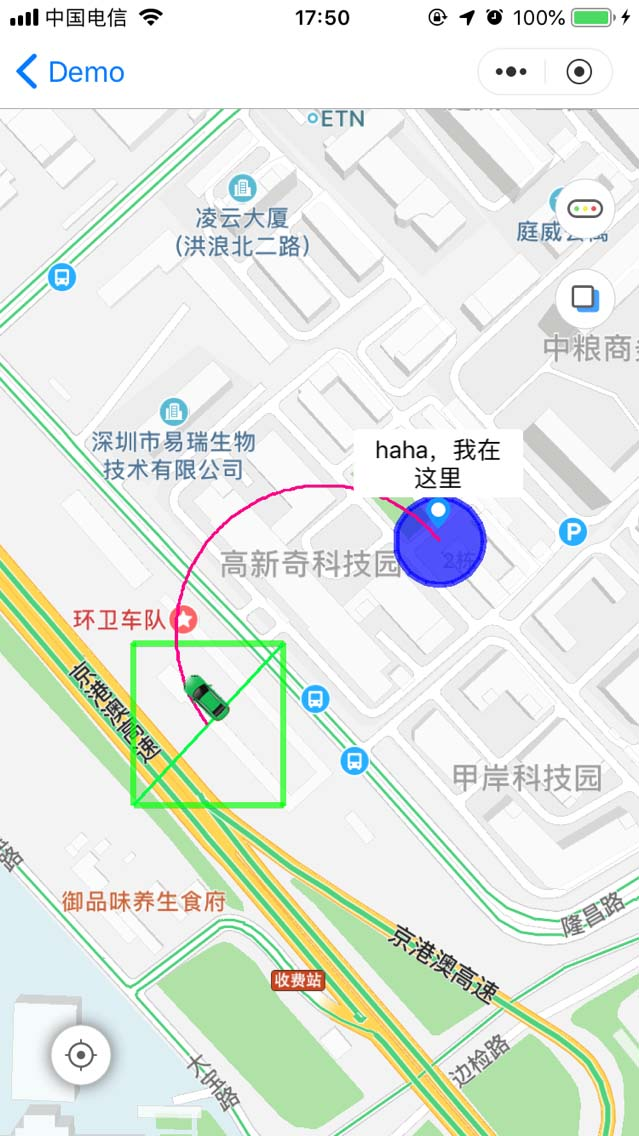
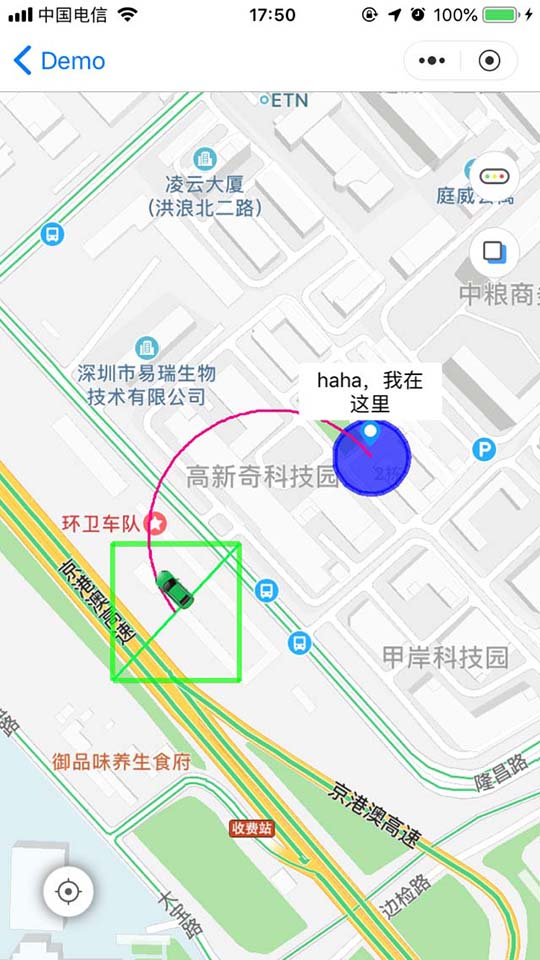
修改JS实例程序

diff --git a/example/App.js b/example/App.js
@@ -8,30 +8,295 @@
  */
 
 import React, {Component} from 'react';
-import {Platform, StyleSheet, Text, View, Dimensions, Button} from 'react-native';
-import { MapView, MapTypes, Geolocation, Overlay } from 'react-native-baidu-map';
+import {Platform, StyleSheet, Image, Text, View, Dimensions, Button,TouchableOpacity} from 'react-native';
+import { MapView, MapTypes, Geolocation, Overlay } from 'react-native-baidu-map-jm';
 const {height, width} = Dimensions.get('window');
 
-type Props = {};
 export default class App extends Component<Props> {
-  state = {
-  };
+    state = {
+        center:{
+            latitude : 22.5801910000,
+            longitude : 113.9276540000
+        },
+        trafficEnabled:true,
+        isOpenPanoramic:false,
+        mapType:1,
+        markers:[
+        {
+             title:'汽车位置',
+             location:{
+                 latitude : 22.55373,
+                 longitude : 113.925063
+             }
+        },
+        {
+             title:'haha，我在这里',
+             location:{
+                 latitude : 22.580054,
+                 longitude : 113.927745
+             }
+        }],
+        isCarLocation:false,
+    };
+
+    componentWillMount() {
+    }
+
+    componentDidMount(){
+        this.location(this.state.isCarLocation);
+    }
+
+    componentWillUnmount() {
+    }
+
+    //路况
+    setTraffic(enabled){
+        console.log('Home',"路况：" + enabled);
+        this.setState({trafficEnabled:enabled});
+    }
+
+    //全景
+    panoramic(isOpen){
+        console.log('Home',"全景状态：" + isOpen);
+
+    }
+
+    //地图类型
+    setMapType(type){
+        console.log('Home',"地图类型：" + type);
+        this.setState({mapType:type});
+    }
+
+    location(isCar){
+        if(isCar) {
+            console.log('定位车辆位置');
+        } else {
+            console.log('定位当前位置');
+        }
+        this.setState({isCarLocation:isCar});
+        if(isCar){
+            this.getCarLocation();
+        }else{
+            this.getMyLocation();
+        }
+
+    }
+
+    //查询车的位置
+    getCarLocation(){
+       //此处无Car的位置信息，用人的位置代替
+      Geolocation.getCurrentPosition().then(data=>{
+          console.log('getCarPosition',"latitude:" + data.latitude + " ,longitude:" + data.longitude + " ,address:" + data.address);
+          let carPosition = this.state.markers[0];
+          let personPosition = this.state.markers[1];
+          this.setState({
+              markers:[
+                 {
+                       title:carPosition.title,
+                       location:{
+                          latitude : data.latitude-0.001000,
+                          longitude : data.longitude-0.001000,
+                       }
+                 },
+                 {
+                       title:personPosition.title,
+                       location:{
+                          latitude : personPosition.location.latitude,
+                          longitude : personPosition.location.longitude,
+                       }
+                 }
+              ],
+              center:{
+                        latitude : data.latitude-0.001000,
+                        longitude : data.longitude-0.001000
+              }
+              });
+          }).catch(e=>{
+            console.log('getCurrentPosition', '获取位置失败:' + e);
+        });
+    }
+
+    //获取当前人位置
+    getMyLocation(){
+        Geolocation.getCurrentPosition().then(data=>{
+              console.log('getCurrentPosition',"latitude:" + data.latitude + " ,longitude:" + data.longitude + " ,address:" + data.address);
+              let carPosition = this.state.markers[0];
+              let personPosition = this.state.markers[1];
+              this.setState({
+                markers:[
+                {
+                     title:carPosition.title,
+                     location:{
+                         latitude : carPosition.location.latitude,
+                         longitude : carPosition.location.longitude,
+                     }
+                 },
+                 {
+                     title:personPosition.title,
+                     location:{
+                         latitude : data.latitude,
+                         longitude : data.longitude,
+                     }
+                 }
+                 ],
+                center:{
+                    latitude : data.latitude,
+                    longitude : data.longitude
+                }
+            });
+        }).catch(e=>{
+               console.log('getCurrentPosition', '获取位置失败:' + e);
+        });
+    }
 
   render() {
-    const { infoWindowProps } = this.state;
-    console.warn('Overlay', Overlay)
     return (
       <View style={styles.container}>
-        <MapView 
-          width={width} 
-          height={400} 
+        <MapView
+          mapType={this.state.mapType}
+          trafficEnabled={this.state.trafficEnabled}
+          width={width}
+          height={height}
           zoom={18}
-          trafficEnabled={true}
-          zoomControlsVisible={true}
-          mapType={MapTypes.SATELLITE}
-          center={{ longitude: 113.960453, latitude: 22.546045 }}
+          center={this.state.center}
+
+          onMapStatusChange={(params)=>{
+//            console.log("onMapStatusChange->params:" + params.target.longitude)
+          }}
+
+          onMapLoaded={(params)=>{
+            console.log("onMapLoaded->params:")
+          }}
+
+          onMapClick={(params)=>{
+            console.log("onMapClick->位置:" + params.longitude + "," + params.latitude)
+          }}
+
+          onMapDoubleClick={(params)=>{
+              console.log("onMapPoiClick->params:" + " ,位置:" + params.longitude + "," + params.latitude)
+          }}
+
+          onMapPoiClick={(params)=>{
+            console.log("onMapPoiClick->Name:" + params.name + " ,uid:" + params.uid + " ,位置:" + params.longitude + "," + params.latitude)
+          }}
+
+          onMarkerClick={(params) => {
+            console.log("onMarkerClick->标题:", params.title + " ,位置:" + params.position.longitude + "," + params.position.latitude)
+          }}
+
+          onBubbleOfMarkerClick={(params) => {
+            console.log("onBubbleOfMarkerClick->标题:", params.title + " ,位置:" + params.position.longitude + "," + params.position.latitude)
+            }}
         >
+            
+          <Overlay.Marker
+            title={this.state.markers[0].title}
+            location={this.state.markers[0].location}
+            icon={'icon_car'}
+            infoWindow={{
+              title:this.state.markers[0].title,
+              visible:true,
+              width:100,
+              height:40,
+              alpha:0.8
+            }}
+          />
+
+          <Overlay.Marker
+            title={this.state.markers[1].title}
+            location={this.state.markers[1].location}
+            icon={'home_icon_locat'}
+            infoWindow={{
+              title:this.state.markers[1].title,
+              visible:true,
+              width:100,
+              height:40,
+              alpha:1.0
+            }}
+          />
+
+          <Overlay.Circle
+            center={this.state.markers[1].location}
+            radius={30}
+            fillColor='AA0000FF'
+          />
+
+          <Overlay.Polygon
+            points={[{
+                      latitude: this.state.markers[0].location.latitude-0.0005,
+                      longitude: this.state.markers[0].location.longitude-0.0005
+                     },
+                     {
+                      latitude: this.state.markers[0].location.latitude-0.0005,
+                      longitude: this.state.markers[0].location.longitude+0.0005
+                     },
+                     {
+                      latitude: this.state.markers[0].location.latitude+0.0005,
+                      longitude: this.state.markers[0].location.longitude+0.0005
+                     },
+                     {
+                      latitude: this.state.markers[0].location.latitude+0.0005,
+                      longitude: this.state.markers[0].location.longitude-0.0005
+                     }]}
+          />
+
+          <Overlay.Polyline
+            points={[{
+                      latitude: this.state.markers[0].location.latitude-0.0005,
+                      longitude: this.state.markers[0].location.longitude-0.0005
+                     },
+                     {
+                      latitude: this.state.markers[0].location.latitude+0.0005,
+                      longitude: this.state.markers[0].location.longitude+0.0005
+                     }]}
+            />
+
+            <Overlay.Arc
+            points={[{
+                      latitude: this.state.markers[0].location.latitude,
+                      longitude: this.state.markers[0].location.longitude
+                     },
+                     {
+                      latitude: this.state.markers[0].location.latitude,
+                      longitude: this.state.markers[1].location.longitude
+                     },
+                     {
+                      latitude: this.state.markers[1].location.latitude,
+                      longitude: this.state.markers[1].location.longitude
+                     }
+                     ]}
+          />
+
         </MapView>
+
+        <TouchableOpacity style={{position:'absolute',bottom:20,start:20}} onPress={()=>{this.location(!this.state.isCarLocation)}}>
+            <Image
+            source={this.state.isCarLocation ? require('./res/image/home_icon_car.png'):require('./res/image/home_icon_location.png')}>
+            </Image>
+        </TouchableOpacity>
+
+        <View style={{flexDirection:'column' , justifyContent:'space-between' ,width:30 ,height:90 ,position:'absolute',top:40,end:20}}>
+            <TouchableOpacity onPress={()=>{this.setTraffic(!this.state.trafficEnabled)}}>
+                <Image
+                source={this.state.trafficEnabled ? require('./res/image/icon_traffic_selected.png'):require('./res/image/icon_traffic_unselected.png')}>
+                </Image>
+            </TouchableOpacity>
+            <TouchableOpacity onPress={()=>{
+                let type = this.state.mapType == 1 ? 2 : 1;
+                this.setMapType(type);
+                }}>
+                <Image
+                    source={this.state.mapType == 1 ? require('./res/image/icon_layer_unselected.png'):require('./res/image/icon_layer_selected.png')}>
+                </Image>
+            </TouchableOpacity>
+        </View>
+
+        <TouchableOpacity style={{position:'absolute',bottom:20,start:20}} onPress={()=>{this.location(!this.state.isCarLocation)}}>
+            <Image
+            source={this.state.isCarLocation ? require('./res/image/home_icon_location.png'):require('./res/image/home_icon_car.png')}>
+            </Image>
+        </TouchableOpacity>
+
       </View>
     );
   }
